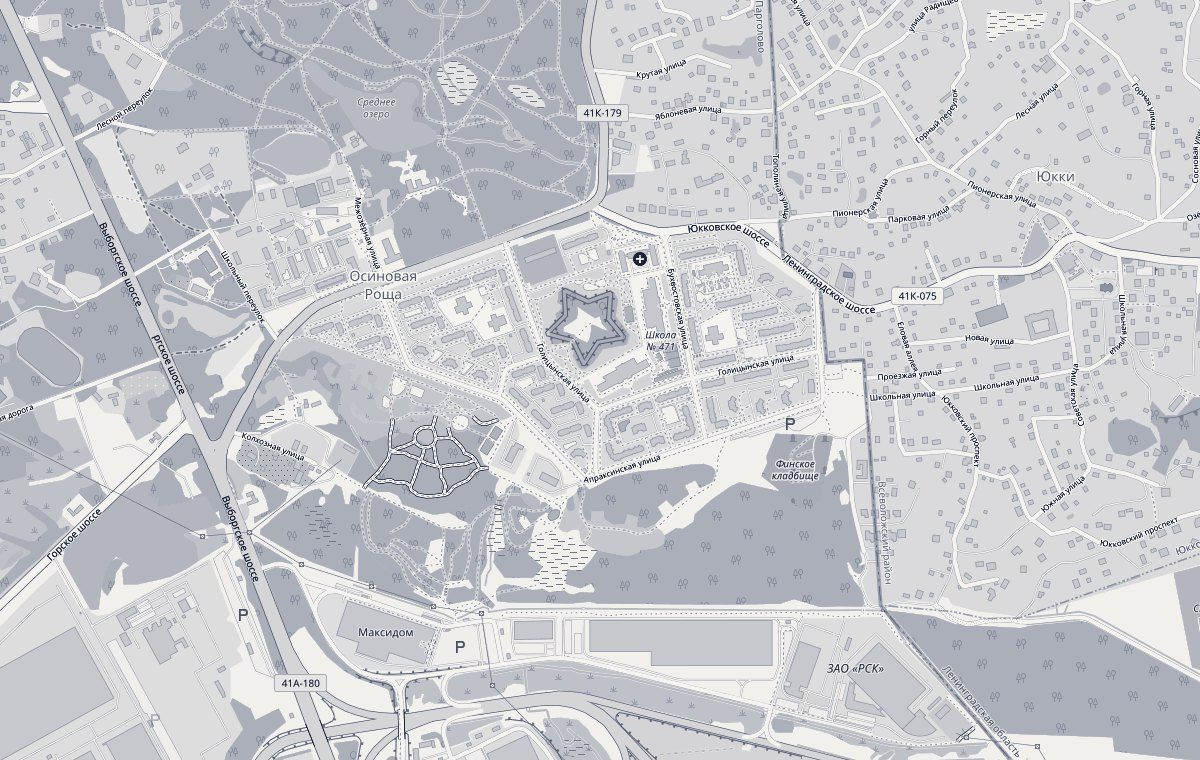
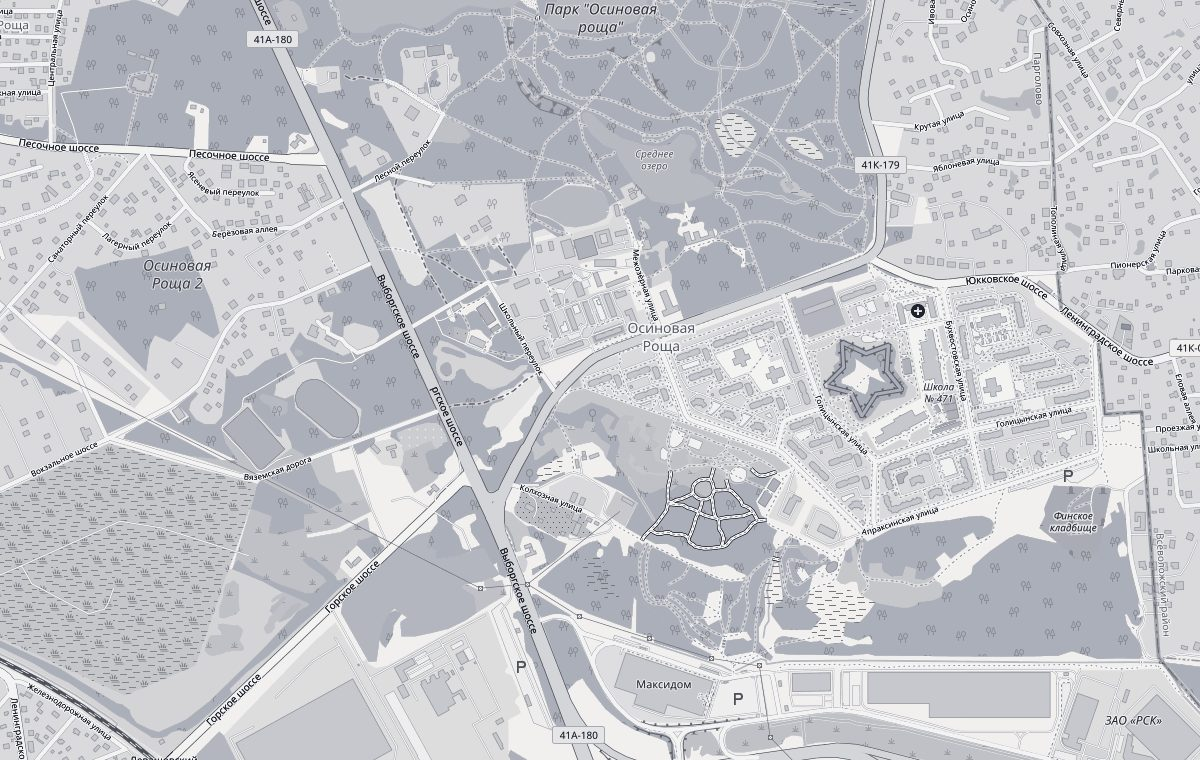
irishka: client edits (prices 2500/2800/2700, cupcakes 350, trifles 400, pickup Priozerskoe sh. 10k1, prepayment, WhatsApp, popular fillings)

diff --git a/irishka/index.html b/irishka/index.html
@@ -5,7 +5,7 @@
 <meta name="viewport" content="width=device-width, initial-scale=1, viewport-fit=cover">
 <meta name="robots" content="noindex">
 <title>Тортишки от Иришки — свадебные и праздничные торты на заказ в Санкт-Петербурге</title>
-<meta name="description" content="Кондитер Ирина Брико: свадебные и ярусные торты, торты на день рождения, бенто, капкейки и торт-мороженое. От 2 000 ₽ за кг, бесплатная доставка до м. «Проспект Просвещения» и по Выборгскому району.">
+<meta name="description" content="Кондитер Ирина Брико: свадебные и ярусные торты, торты на день рождения, бенто, капкейки и торт-мороженое. От 2 500 ₽ за кг, бесплатная доставка до м. «Проспект Просвещения» и по Выборгскому району.">
 <meta name="theme-color" content="#F4F2EF">
 <meta property="og:type" content="website">
 <meta property="og:title" content="Тортишки от Иришки — свадебные и праздничные торты на заказ">
@@ -370,7 +370,7 @@
 
   /* Delivery */
   .deliv{display:grid;grid-template-columns:1.1fr .9fr;gap:clamp(26px,4vw,60px);align-items:center}
-  .map{position:relative;border-radius:26px;overflow:hidden;border:1px solid var(--line);background:var(--bg2);--px:51.25%;--py:61.8%}
+  .map{position:relative;border-radius:26px;overflow:hidden;border:1px solid var(--line);background:var(--bg2);--px:50%;--py:50%}
   .map img{width:100%;aspect-ratio:1200/760;object-fit:cover}
   .pin{position:absolute;left:var(--px);top:var(--py);width:22px;height:22px;transform:translate(-50%,-50%)}
   .pin::before{content:"";position:absolute;inset:0;border-radius:50%;background:var(--rose);border:4px solid #fff;box-shadow:0 4px 12px rgba(30,38,56,.45)}
@@ -386,7 +386,7 @@
   .dl .ico{width:24px;height:24px;color:var(--gold-d);margin-top:1px}
   .dl b{display:block;color:var(--ink);font-weight:600}
   @media(max-width:900px){.deliv{grid-template-columns:1fr}}
-  @media(max-width:620px){.map{--px:52%}.map img{aspect-ratio:1/1}}
+  @media(max-width:620px){.map{--px:50%}.map img{aspect-ratio:1/1}}
 
   /* FAQ */
   .faq{max-width:900px}
@@ -451,6 +451,7 @@
 <body>
 <svg width="0" height="0" style="position:absolute" aria-hidden="true">
   <symbol id="i-phone" viewBox="0 0 24 24"><path d="M5 4h3l2 5-2.5 1.5a11 11 0 0 0 6 6L15 14l5 2v3a2 2 0 0 1-2 2A16 16 0 0 1 3 6a2 2 0 0 1 2-2"/></symbol>
+  <symbol id="i-wa" viewBox="0 0 24 24"><path d="M3.6 20.4l1.2-4.2a8.4 8.4 0 1 1 3.1 3.1z"/><path d="M9.2 8.4c.3-.6.9-.6 1.1 0l.5 1.3c.1.3 0 .6-.3.9l-.4.4c.6 1.2 1.6 2.2 2.8 2.8l.4-.4c.3-.3.6-.4.9-.3l1.3.5c.6.2.6.8 0 1.1-.8.6-1.8.7-2.8.2a8 8 0 0 1-3.7-3.7c-.5-1-.4-2 .2-2.8z"/></symbol>
   <symbol id="i-vk" viewBox="0 0 24 24"><path class="ico-f" d="M13.06 18C6.54 18 2.82 13.53 2.67 6.1h3.27c.1 5.46 2.51 7.77 4.42 8.25V6.1h3.08v4.71c1.88-.2 3.86-2.35 4.53-4.71h3.07c-.51 2.92-2.66 5.07-4.19 5.95 1.53.71 3.98 2.58 4.91 5.95h-3.38c-.73-2.27-2.54-4.02-4.94-4.26V18h-.38z"/></symbol>
   <symbol id="i-menu" viewBox="0 0 24 24"><path d="M4 7h16M4 12h16M4 17h10"/></symbol>
   <symbol id="i-x" viewBox="0 0 24 24"><path d="M6 6l12 12M18 6L6 18"/></symbol>
@@ -511,7 +512,7 @@
   </figure>
   <ul class="wrap facts">
     <li><b>5,0</b><span>средняя оценка по 18 отзывам ВКонтакте</span></li>
-    <li><b>от 2 000 ₽</b><span>за килограмм торта, декор отдельно</span></li>
+    <li><b>от 2 500 ₽</b><span>за килограмм торта, декор отдельно</span></li>
     <li><b>1,7 тыс.</b><span>подписчиков в группе «Тортишки от Иришки»</span></li>
     <li><b>Бесплатно</b><span>доставка до м. «Проспект Просвещения» и по Выборгскому району</span></li>
   </ul>
@@ -598,7 +599,7 @@
           <div class="res-parts" id="r-parts"></div>
           <div class="res-price" id="r-price"></div>
           <div class="res-warn" id="r-warn" hidden></div>
-          <p class="res-note">Цена по прайсу из группы: торт от 2 000 ₽ за кг. Цветы, топпер и сложный декор считаются отдельно, точную сумму назову после обсуждения</p>
+          <p class="res-note">Одноярусный торт 2 500 ₽ за кг, ярусный 2 800 ₽ за кг, без глютена 2 700 ₽. Цветы, топпер, декор и доставка считаются отдельно, точную сумму назову после обсуждения</p>
         </div>
         <button class="btn btn-gold btn-wide" type="button" id="c-send">Отправить расчёт Ирине</button>
       </div>
@@ -610,7 +611,7 @@
   <div class="wrap">
     <div class="sec-head">
       <div><p class="kick"><i>III</i>Карта вкусов</p><h2 class="h2">Начинки</h2></div>
-      <p class="lead">Коржи, кремы и начинки делаю сама. Вишню и малину заготавливаю летом, садовую и лесную. Выберите вкус из карты или придумаем свой</p>
+      <p class="lead">Коржи, кремы и начинки делаю сама. Чаще всего берут ягодные: малину, клубнику, вишню, чернику, лесную ягоду и манго. По желанию сделаю любую начинку, хоть чизкейк, хоть мусс</p>
     </div>
     <div class="menu">
       <div class="chips" id="fl-chips">
@@ -671,17 +672,18 @@
   <div class="wrap">
     <div class="sec-head">
       <div><p class="kick"><i>VI</i>Цены</p><h2 class="h2">Прайс</h2></div>
-      <p class="lead">Цены из моей группы ВКонтакте. Точную сумму назову, когда обсудим вес и оформление</p>
+      <p class="lead">Точную сумму назову, когда обсудим вес и оформление. Декор и доставка считаются отдельно</p>
     </div>
     <div class="price-grid">
       <div class="pl">
         <h3>Торты</h3>
         <p class="pl-sub">Цена за 1 кг</p>
-        <div class="pl-row"><span>Бисквитные и муссовые</span><i></i><b>от 2 000 ₽</b></div>
-        <div class="pl-row"><span>Свадебные и ярусные<small>декор отдельно</small></span><i></i><b>от 2 000 ₽</b></div>
+        <div class="pl-row"><span>Бисквитные и муссовые</span><i></i><b>2 500 ₽</b></div>
+        <div class="pl-row"><span>Свадебный в 1 ярус<small>декор отдельно</small></span><i></i><b>2 500 ₽</b></div>
+        <div class="pl-row"><span>Ярусные торты<small>декор отдельно</small></span><i></i><b>2 800 ₽</b></div>
         <div class="pl-row"><span>Торт-мороженое<small>нарежу на нужный вес</small></span><i></i><b>2 700 ₽</b></div>
         <div class="pl-row"><span>ПП-торт без сахара</span><i></i><b>2 500 ₽</b></div>
-        <div class="pl-row"><span>Без глютена</span><i></i><b>2 100 ₽</b></div>
+        <div class="pl-row"><span>Без глютена<small>дорогие ингредиенты</small></span><i></i><b>2 700 ₽</b></div>
         <div class="pl-row"><span>Фигурный 3D-торт</span><i></i><b>от 3 000 ₽</b></div>
         <div class="pl-end"><a class="btn btn-main btn-sm" href="#konstruktor">Рассчитать свадебный торт</a></div>
       </div>
@@ -689,11 +691,11 @@
         <h3>Небольшие радости</h3>
         <p class="pl-sub">К чаю, в подарок, на работу</p>
         <div class="pl-row"><span>Бенто-торт, 600–700 г<small>на 1–2 человек, с надписью</small></span><i></i><b>2 000 ₽</b></div>
-        <div class="pl-row"><span>Торт в стакане</span><i></i><b>1 100 ₽</b></div>
-        <div class="pl-row"><span>Капкейки<small>без глютена 270 ₽</small></span><i></i><b>250 ₽/шт</b></div>
+        <div class="pl-row"><span>Трайфл<small>торт в стакане</small></span><i></i><b>400 ₽/шт</b></div>
+        <div class="pl-row"><span>Капкейки</span><i></i><b>350 ₽/шт</b></div>
         <div class="pl-row"><span>Картошка в шоколаде<small>9 штук 1 350 ₽</small></span><i></i><b>6 шт 900 ₽</b></div>
         <div class="pl-row"><span>Домашняя сливочная карамель</span><i></i><b>300 ₽</b></div>
-        <div class="pl-end"><button class="btn btn-line btn-sm" type="button" data-preset='{"occ":"Бенто-торт"}'>Заказать бенто или капкейки</button></div>
+        <div class="pl-end"><button class="btn btn-line btn-sm" type="button" data-preset='{"occ":"Капкейки или трайфлы"}'>Заказать капкейки или трайфлы</button></div>
       </div>
     </div>
     <div class="notes">
@@ -761,7 +763,7 @@
     <ol class="steps">
       <li><b>Напишите дату и повод</b><p>Через заявку на сайте, ВКонтакте или по телефону. Число гостей поможет посчитать вес</p></li>
       <li><b>Обсудим вкус и декор</b><p>Пришлите картинку-пример или расскажите об имениннике, и я предложу оформление сама</p></li>
-      <li><b>Закрепим дату</b><p>Перед Новым годом запись заканчивается быстро, лучше писать заранее</p></li>
+      <li><b>Закрепим дату</b><p>Дату закрепляет предоплата, обычно 1 500–2 000 ₽. Перед Новым годом запись заканчивается быстро, лучше писать заранее</p></li>
       <li><b>Заберите или я привезу</b><p>Самовывоз из Осиновой Рощи или доставка, время согласуем</p></li>
     </ol>
   </div>
@@ -772,11 +774,12 @@
     <div class="order-txt">
       <p class="kick"><i>X</i>Заявка</p>
       <h2 class="h2">Расскажите о празднике</h2>
-      <p class="lead">Уточню детали и назову точную цену. Можно сразу позвонить или написать ВКонтакте</p>
+      <p class="lead">Уточню детали и назову точную цену. Можно сразу позвонить или написать в WhatsApp, Telegram, MAX или ВКонтакте</p>
       <div class="ct">
         <a class="ct-row" href="tel:+79112747506"><svg class="ico" aria-hidden="true"><use href="#i-phone"/></svg><span><small>Телефон</small>+7 911 274-75-06</span></a>
         <a class="ct-row" href="https://vk.me/club211176303" target="_blank" rel="noopener"><svg class="ico" aria-hidden="true"><use href="#i-vk"/></svg><span><small>ВКонтакте</small>Написать в сообщения группы</span></a>
-        <div class="ct-row"><svg class="ico" aria-hidden="true"><use href="#i-pin"/></svg><span><small>Самовывоз</small>Осиновая Роща, Апраксинская улица</span></div>
+        <a class="ct-row" href="https://wa.me/79112747506" target="_blank" rel="noopener"><svg class="ico" aria-hidden="true"><use href="#i-wa"/></svg><span><small>WhatsApp</small>Написать в WhatsApp</span></a>
+        <div class="ct-row"><svg class="ico" aria-hidden="true"><use href="#i-pin"/></svg><span><small>Самовывоз</small>Осиновая Роща, Приозерское шоссе, 10 к1</span></div>
       </div>
     </div>
     <form class="form" id="form" novalidate>
@@ -817,23 +820,23 @@
 <section class="sec" id="dostavka">
   <div class="wrap deliv">
     <div class="map">
-      <img src="img/map.jpg" alt="Карта: Осиновая Роща, Апраксинская улица" width="1200" height="760" loading="lazy" decoding="async">
+      <img src="img/map.jpg" alt="Карта: Осиновая Роща, Приозерское шоссе, 10 к1" width="1200" height="760" loading="lazy" decoding="async">
       <span class="pin" aria-hidden="true"></span>
-      <span class="map-lab">Самовывоз<b>Апраксинская улица</b></span>
+      <span class="map-lab">Самовывоз<b>Приозерское ш., 10 к1</b></span>
       <span class="map-cr">© участники OpenStreetMap</span>
     </div>
     <div>
       <p class="kick"><i>XI</i>Доставка</p>
       <h2 class="h2">Самовывоз и доставка</h2>
       <ul class="dl">
-        <li><svg class="ico" aria-hidden="true"><use href="#i-pin"/></svg><span><b>Самовывоз</b>Осиновая Роща, Апраксинская улица. Точный адрес пришлю при заказе</span></li>
+        <li><svg class="ico" aria-hidden="true"><use href="#i-pin"/></svg><span><b>Самовывоз</b>Осиновая Роща, Приозерское шоссе, дом 10 корпус 1</span></li>
         <li><svg class="ico" aria-hidden="true"><use href="#i-truck"/></svg><span><b>Бесплатная доставка</b>до метро «Проспект Просвещения» и по Выборгскому району</span></li>
         <li><svg class="ico" aria-hidden="true"><use href="#i-route"/></svg><span><b>По городу</b>платно, стоимость зависит от района</span></li>
         <li><svg class="ico" aria-hidden="true"><use href="#i-clock"/></svg><span><b>Время</b>доставки всегда согласуем заранее</span></li>
       </ul>
       <div class="btns">
-        <a class="btn btn-main" href="https://yandex.ru/maps/?pt=30.26422,60.10576&amp;z=15&amp;l=map" target="_blank" rel="noopener">Открыть в Яндекс Картах</a>
-        <a class="btn btn-line" href="https://yandex.ru/maps/?rtext=~60.10576,30.26422&amp;rtt=auto" target="_blank" rel="noopener">Маршрут</a>
+        <a class="btn btn-main" href="https://yandex.ru/maps/?pt=30.25164,60.10881&amp;z=15&amp;l=map" target="_blank" rel="noopener">Открыть в Яндекс Картах</a>
+        <a class="btn btn-line" href="https://yandex.ru/maps/?rtext=~60.10881,30.25164&amp;rtt=auto" target="_blank" rel="noopener">Маршрут</a>
       </div>
     </div>
   </div>
@@ -846,8 +849,9 @@
     <details><summary>За сколько дней заказывать торт?</summary><p>Чем раньше, тем лучше: так я точно закреплю за вами дату. Перед Новым годом запись заканчивается быстро. Если торт нужен срочно, всё равно напишите: бывало, заказ приходил сегодня, а торт уезжал к заказчику уже на следующий день</p></details>
     <details><summary>Сколько торта нужно на моих гостей?</summary><p>Считайте 150–200 г на человека. На 6–8 гостей хватит 1,5 кг, на 10 гостей около 2 кг, на 20 гостей 3–4 кг. Свадебный торт удобно посчитать в <a href="#konstruktor">конструкторе</a></p></details>
     <details><summary>Можно повторить торт по картинке?</summary><p>Да, пришлите картинку-пример. А если доверите оформление мне, расскажите об имениннике: что любит, чем увлекается, и я предложу декор сама</p></details>
-    <details><summary>Есть торты без сахара или без глютена?</summary><p>Да. ПП-торт делаю на заменителе сахара, его заказывают в том числе люди с диабетом. Есть безглютеновый бисквит и безглютеновые капкейки. Об аллергии скажите заранее, учту все рекомендации</p></details>
-    <details><summary>Что входит в цену за килограмм?</summary><p>Торт с начинкой и покрытием. Отдельно оплачивается декор: фигурки, пряники, сахарные картинки, цветы и топперы</p></details>
+    <details><summary>Есть торты без сахара или без глютена?</summary><p>Да. ПП-торт делаю на заменителе сахара, его заказывают в том числе люди с диабетом. Есть безглютеновый бисквит, 2 700 ₽ за кг. Об аллергии скажите заранее, учту все рекомендации</p></details>
+    <details><summary>Что входит в цену за килограмм?</summary><p>Торт с начинкой и покрытием: 2 500 ₽ за кг, ярусный 2 800 ₽ за кг. Отдельно оплачивается декор (фигурки, пряники, сахарные картинки, цветы и топперы) и доставка, если она нужна</p></details>
+    <details><summary>Нужна ли предоплата?</summary><p>Да, предоплата закрепляет за вами дату, обычно 1 500–2 000 ₽.</p></details>
     <details><summary>Как хранить торт-мороженое?</summary><p>В морозилке. Его можно есть сразу холодным или дать немного подтаять: от тепла он не растекается</p></details>
     <details><summary>Куда доставляете?</summary><p>Бесплатно до метро «Проспект Просвещения» и по Выборгскому району. По городу доставка платная, стоимость зависит от района. Время доставки согласуем заранее</p></details>
   </div>
@@ -907,29 +911,31 @@
   const plural = (n, a, b, c) => { const m10 = n % 10, m100 = n % 100; return m10 === 1 && m100 !== 11 ? a : m10 >= 2 && m10 <= 4 && (m100 < 12 || m100 > 14) ? b : c; };
   const ico = id => `<svg class="ico" aria-hidden="true"><use href="#${id}"/></svg>`;
 
-  // Flavours and prices per kg from her VK shop
+  // Flavours: base 2500/kg, tiered cakes 2800/kg, gluten-free 2700/kg (her prices 08.11)
+  const TIER_P = 2800;
   const FLAVORS = [
-    {id: "lavanda", n: "Лавандовый с черникой", d: "Лавандовые коржи, дикая черника, черничный мусс, крем-чиз", p: 2000, t: ["hit", "berry"], hit: 1},
-    {id: "molochnaya", n: "Молочная девочка", d: "Нежные коржи и сливочный крем, по желанию любые ягоды", p: 2200, t: ["hit", "berry"], hit: 1},
-    {id: "barhat-vishnya", n: "Красный бархат с вишней", d: "Красный бархат, вишня, вишнёвый мусс, крем-чиз", p: 2000, t: ["hit", "berry"], hit: 1},
-    {id: "barhat-klubnika", n: "Красный бархат с клубникой", d: "Красный бархат, клубника и клубничный мусс, крем-чиз", p: 2000, t: ["berry"]},
-    {id: "fistashka", n: "Фисташка-малина", d: "Фисташковый бисквит, малиновое конфи, малиновый мусс", p: 2500, t: ["berry"]},
-    {id: "tri-shokolada", n: "Три шоколада", d: "Шоколадный бисквит, муссы на тёмном, молочном и белом шоколаде, крем-чиз", p: 2300, from: 1, t: ["choc"]},
-    {id: "snikers", n: "Сникерс", d: "Шоколадные коржи, шоколадный мусс, домашняя карамель с арахисом, крем-чиз на сливках", p: 2200, t: ["hit", "choc"], hit: 1},
-    {id: "shoko-vishnya", n: "Шоколад-вишня", d: "Шоколадный бисквит, вишня, крем-чиз", p: 2000, t: ["choc", "berry"]},
-    {id: "ferrero", n: "Ферреро Роше", d: "Шоколадные коржи, нежный шоколадный крем, фундук, крем-чиз", p: 2000, t: ["choc"]},
-    {id: "shokokeyk", n: "ШокоКейк", d: "Шоколадный бисквит, сливочный и шоколадный крем, грецкие орехи в тёмном шоколаде", p: 2200, t: ["choc"]},
-    {id: "banan", n: "Банановый бум", d: "Шоколадный бисквит, шоколадный крем, банановая начинка, крем-чиз", p: 2000, t: ["choc", "fruit"]},
-    {id: "mango", n: "Манго-маракуйя", d: "Белый шифоновый бисквит, манговый мусс, крем-чиз", p: 2200, t: ["fruit"]},
-    {id: "mak", n: "Маковый с манго", d: "Маковый бисквит, начинка из манго, крем-чиз с маком", p: 2000, from: 1, t: ["fruit"]},
-    {id: "pina", n: "Пина колада", d: "Кокосовые коржи, компоте из ананаса, кокосовая намелака и кокосовый крем", p: 2000, t: ["fruit"]},
-    {id: "kokos", n: "Кокос-манго", d: "Кокосовый бисквит, манговый мусс, крем-чиз", p: 2000, t: ["fruit"]},
-    {id: "klubnika-banan", n: "Клубника-банан", d: "Клубничный бисквит, клубничный крем, банановый мусс, крем-чиз", p: 2000, t: ["berry", "fruit"]},
-    {id: "vishenka", n: "Вишенка", d: "Заварной бисквит, вишнёвый соус, шоколадная меренга, сливочный сыр", p: 2000, t: ["berry"]},
-    {id: "morkovny", n: "Морковный", d: "Морковный бисквит, апельсиновый крем, карамелизованные грецкие орехи, ганаш на белом шоколаде", p: 2000, t: ["fruit"]},
-    {id: "medovik", n: "Медовик", d: "Медовые коржи, крем на сливках с варёной сгущёнкой", p: 2000, t: []},
+    {id: "molochnaya", n: "Молочная девочка", d: "Нежные коржи и сливочный крем, по желанию любые ягоды", p: 2500, t: ["hit", "berry"], hit: 1},
+    {id: "snikers", n: "Сникерс", d: "Шоколадные коржи, шоколадный мусс, домашняя карамель с арахисом, крем-чиз на сливках", p: 2500, t: ["hit", "choc"], hit: 1},
+    {id: "medovik", n: "Медовик", d: "Медовые коржи, крем на сливках с варёной сгущёнкой", p: 2500, t: ["hit"], hit: 1},
+    {id: "lesnaya", n: "Лесная ягода", d: "Нежные коржи, лесные ягоды и крем-чиз", p: 2500, t: ["hit", "berry"], hit: 1},
+    {id: "barhat-vishnya", n: "Красный бархат с вишней", d: "Красный бархат, вишня, вишнёвый мусс, крем-чиз", p: 2500, t: ["hit", "berry"], hit: 1},
+    {id: "fistashka", n: "Фисташка-малина", d: "Фисташковый бисквит, малиновое конфи, малиновый мусс", p: 2500, t: ["hit", "berry"], hit: 1},
+    {id: "barhat-klubnika", n: "Красный бархат с клубникой", d: "Красный бархат, клубника и клубничный мусс, крем-чиз", p: 2500, t: ["hit", "berry"], hit: 1},
+    {id: "lavanda", n: "Лавандовый с черникой", d: "Лавандовые коржи, дикая черника, черничный мусс, крем-чиз", p: 2500, t: ["hit", "berry"], hit: 1},
+    {id: "mango", n: "Манго-маракуйя", d: "Белый шифоновый бисквит, манговый мусс, крем-чиз", p: 2500, t: ["hit", "fruit"], hit: 1},
+    {id: "tri-shokolada", n: "Три шоколада", d: "Шоколадный бисквит, муссы на тёмном, молочном и белом шоколаде, крем-чиз", p: 2500, t: ["choc"]},
+    {id: "shoko-vishnya", n: "Шоколад-вишня", d: "Шоколадный бисквит, вишня, крем-чиз", p: 2500, t: ["choc", "berry"]},
+    {id: "ferrero", n: "Ферреро Роше", d: "Шоколадные коржи, нежный шоколадный крем, фундук, крем-чиз", p: 2500, t: ["choc"]},
+    {id: "shokokeyk", n: "ШокоКейк", d: "Шоколадный бисквит, сливочный и шоколадный крем, грецкие орехи в тёмном шоколаде", p: 2500, t: ["choc"]},
+    {id: "banan", n: "Банановый бум", d: "Шоколадный бисквит, шоколадный крем, банановая начинка, крем-чиз", p: 2500, t: ["choc", "fruit"]},
+    {id: "mak", n: "Маковый с манго", d: "Маковый бисквит, начинка из манго, крем-чиз с маком", p: 2500, t: ["fruit"]},
+    {id: "pina", n: "Пина колада", d: "Кокосовые коржи, компоте из ананаса, кокосовая намелака и кокосовый крем", p: 2500, t: ["fruit"]},
+    {id: "kokos", n: "Кокос-манго", d: "Кокосовый бисквит, манговый мусс, крем-чиз", p: 2500, t: ["fruit"]},
+    {id: "klubnika-banan", n: "Клубника-банан", d: "Клубничный бисквит, клубничный крем, банановый мусс, крем-чиз", p: 2500, t: ["berry", "fruit"]},
+    {id: "vishenka", n: "Вишенка", d: "Заварной бисквит, вишнёвый соус, шоколадная меренга, сливочный сыр", p: 2500, t: ["berry"]},
+    {id: "morkovny", n: "Морковный", d: "Морковный бисквит, апельсиновый крем, карамелизованные грецкие орехи, ганаш на белом шоколаде", p: 2500, t: ["fruit"]},
     {id: "pp", n: "ПП без сахара", d: "Шоколадный ПП-бисквит, вишнёвая начинка и крем-чиз без сахара", p: 2500, t: ["free"]},
-    {id: "bez-glutena", n: "Без глютена", d: "Безглютеновый бисквит, клубника, крем-чиз", p: 2100, t: ["free", "berry"]}
+    {id: "bez-glutena", n: "Без глютена", d: "Безглютеновый бисквит, клубника, крем-чиз", p: 2700, t: ["free", "berry"]}
   ];
   const flById = Object.fromEntries(FLAVORS.map(f => [f.id, f]));
   const flPrice = f => `${f.from ? "от " : ""}${rub(f.p)}/кг`;
@@ -1043,7 +1049,7 @@
     const fl = flById[cFl.value] || FLAVORS[0];
     const finish = document.querySelector("input[name=finish]:checked").value;
     const decor = [...document.querySelectorAll("input[name=decor]:checked")].map(i => i.value);
-    return {g, w, t, auto, parts, fl, finish, decor, warn, price: w * fl.p};
+    return {g, w, t, auto, parts, fl, finish, decor, warn, price: w * Math.max(fl.p, t > 1 ? TIER_P : 0)};
   }
 
   const CX = 196, BASE = 352, K = 9.4;
